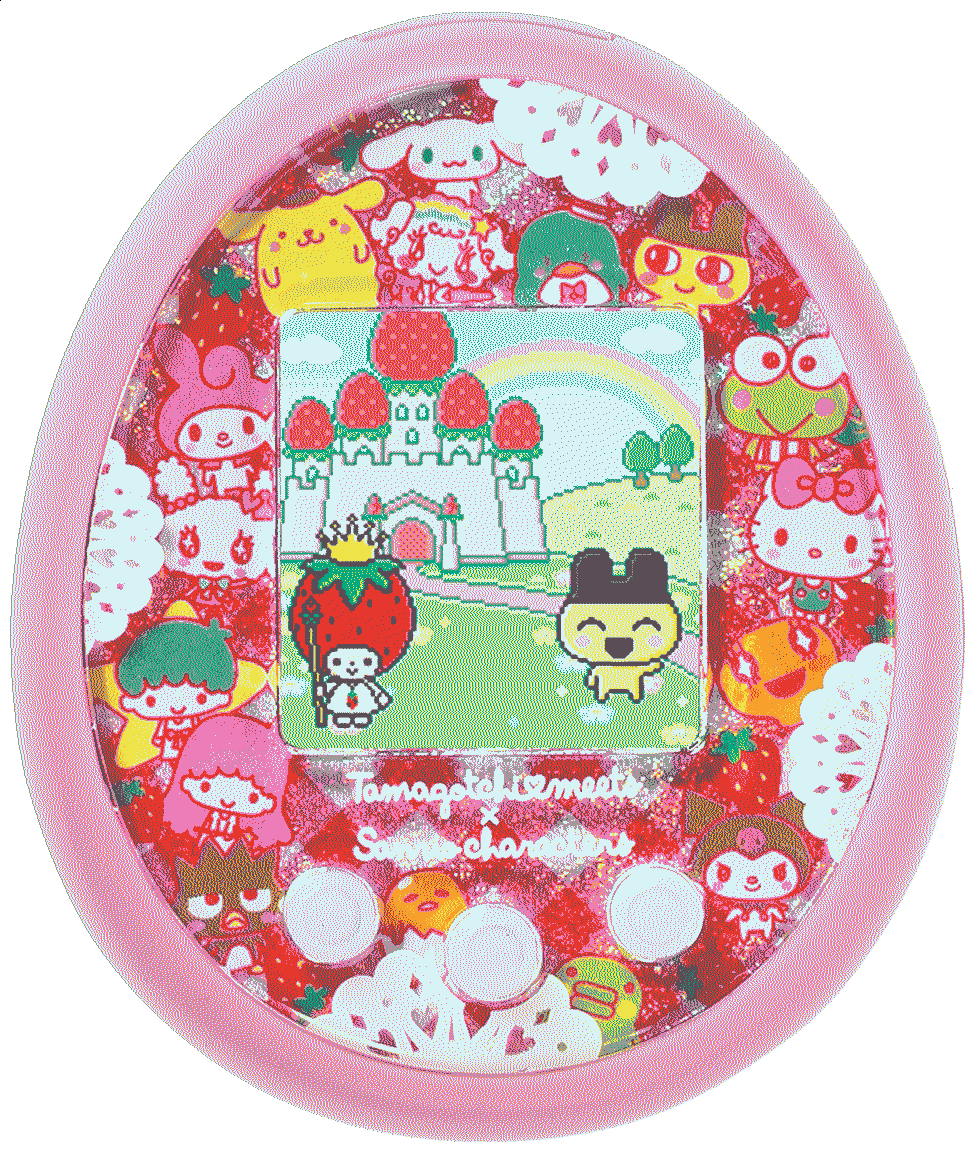
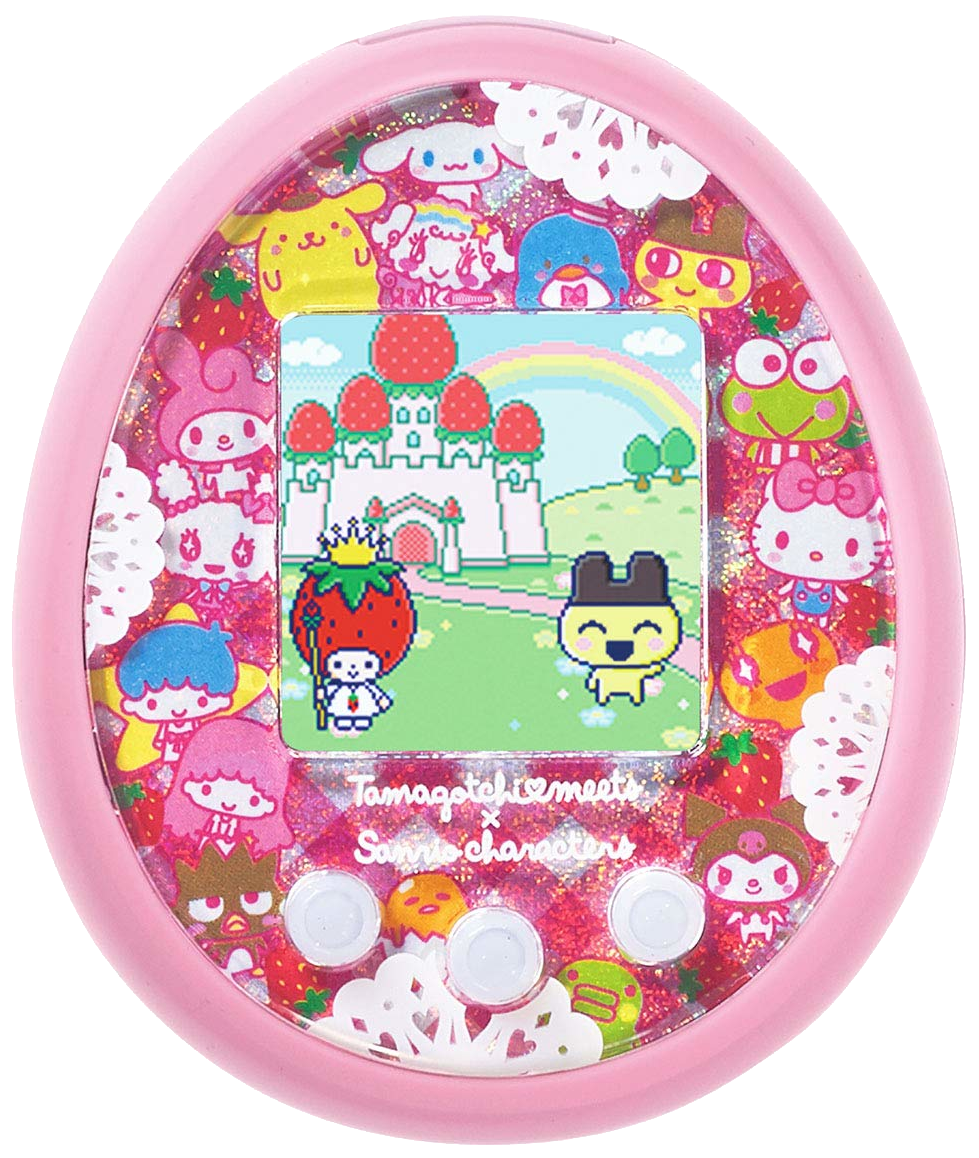
:hatching_chick: tama update

diff --git a/_pages/tamagotchi.md b/_pages/tamagotchi.md
@@ -67,114 +67,63 @@ I think there's something just so compelling about these cute characters, especi
     </center>
     <br>
     <img src="/graphics/tama/uni_pink.png" style="margin: 0 20px 0 0;" width="30%" align="left" title="Tamagotchi Uni Pink- Purchased on August 17, 2023 for ￥7,174 (equivalent to $49.50 USD)">
-    I really didn't think I was going to get into tamagotchi as an adult because I remember the game part of the device was pretty dull when I was a kid. The brand has come a long way since the original generation of tamas, and now growing different characters is so fun! I also love to collect the decor and accessories to dress up my tama and their room. Like many other tamagotchi fans, I am hoping they release a different shell for this tamagotchi, ideally a transparent one. 
+    I really didn't think I was going to get into tamagotchi as an adult because I remember the game part of the device was pretty dull when I was a kid. The brand has come a long way since the original generation of tamas, and now growing different characters is so fun! I also love to collect the decor and accessories to dress up my tama and their room. Like many other tamagotchi fans, I am hoping they release a different shell for this tamagotchi, ideally a transparent one, but I'm having a great time playing with the one I have in the meantime. Here are all the characters I've grown and unlocked so far:
+    <br>
+    <br>
+    <center>
+        <img src="/graphics/tama/niinitchi-uni.png" style="filter: drop-shadow(0 0 15px #ed5db1); margin: 0 5px 0 5px;" title="niinitchi - baby">
+        <img src="/graphics/tama/yooyutchi-uni.png" style="filter: drop-shadow(0 0 15px #ed5db1); margin: 0 5px 0 5px;" title="yooyutchi - baby">
+        <img src="/graphics/tama/Lionetchi_uni.png" style="filter: drop-shadow(0 0 15px #ed5db1); margin: 0 5px 0 5px;" title="lionetchi - child">
+        <img src="/graphics/tama/welcotchi-uni.png" style="filter: drop-shadow(0 0 15px #ed5db1); margin: 0 5px 0 5px;" title="welcotchi - my little welsh corgi tama I'd do anything for">
+        <img src="/graphics/tama/teftetchi-uni.png" style="filter: drop-shadow(0 0 15px #ed5db1); margin: 0 5px 0 5px;" title="teftetchi - teen">
+        <img src="/graphics/tama/curltchi-on.png" style="filter: drop-shadow(0 0 15px #ed5db1); margin: 0 5px 0 5px;" title="curltchi - my little gamer tama">
+        <img src="/graphics/tama/gunchitchi_uni.png" style="filter: drop-shadow(0 0 15px #ed5db1); margin: 0 5px 0 5px;" title="gunchitchi">
+        <img src="/graphics/tama/woopatchi-uni.png" style="filter: drop-shadow(0 0 15px #ed5db1); margin: 0 5px 0 0;" title="woopatchi - adult">
+        <img src="/graphics/tama/Kikitchi_uni.png" style="filter: drop-shadow(0 0 15px #ed5db1); margin: 0 5px 0 5px;" title="Kikitchi - monkey tama!">
+        <img src="/graphics/tama/neliatchi_uni.png" style="filter: drop-shadow(0 0 15px #ed5db1); margin: 0 5px 0 5px;" title="neliatchi">
+        <img src="/graphics/tama/harapparatchi-uni.png" style="filter: drop-shadow(0 0 15px #ed5db1); margin: 0 5px 0 5px;" title="harapparatchi - tamapet">
+        <img src="/graphics/tama/Monatototchi-uni.png" style="filter: drop-shadow(0 0 15px #ed5db1); margin: 0 5px 0 5px;" title="Monatototchi - a little taiyaki pet that showed up to play with welcotchi. cuteness overload">
+    </center>
 </span>
 <br>
-<br>
-<div class="container" style="image-rendering: pixelated; margin: 0 0 10px 0;">
-    <div class="flex-item">
-        <span title="These are the various evolutions of my tama and tamapet from my first time running my Tamagotchi Uni. I was so eager to run this as the device had been recently released. I had just gotten back from a month in Europe, so I was extremely jet lagged and accidentally left my child tama unattended for a while during a nap. She turned into a teftetchi, but I was still able to get a cutie adult tama from this evolution, so I consider the little neglect a happy accident. I love the final result of ✨woopatchi✨, my little pride mascot whose facial expression is a whole mood hehehe."><b>1st generation: woopatchi, queer & iconic</b></span>
-        <br>
-        <br>
-        <center>
-            <img src="/graphics/tama/niinitchi-uni.png" style="filter: drop-shadow(0 0 15px #ed5db1); margin: 0 5px 0 5px;" title="niinitchi - baby">
-            <img src="/graphics/tama/Lionetchi_uni.png" style="filter: drop-shadow(0 0 15px #ed5db1); margin: 0 5px 0 5px;" title="lionetchi - child">
-            <img src="/graphics/tama/teftetchi-uni.png" style="filter: drop-shadow(0 0 15px #ed5db1); margin: 0 5px 0 5px;" title="teftetchi - teen">
-            <img src="/graphics/tama/woopatchi-uni.png" style="filter: drop-shadow(0 0 15px #ed5db1); margin: 0 5px 0 5px;" title="woopatchi - adult">
-            <img src="/graphics/tama/harapparatchi-uni.png" style="filter: drop-shadow(0 0 15px #ed5db1); margin: 0 5px 0 5px;" title="harapparatchi - tamapet">
-        </center>
-    </div>
-    <div class="flex-item">
-        <span title="Woopatchi couldn't resist that Shykutchi. ;P They got busy immediately and made an egg, which hatched into yooyutchi. With some diligent care, he grew quickly into a shy little welcotchi, which has to be one of the cutest tamas in the whole game. I love welsh corgis so much, so I was overjoyed by getting this character who just constantly blushes and asks for cookies and jelly beans. I love that he got to play with the taiyaki-shaped Monatototchi tama pet in the garden all day. Unfortunately, I won too many arcade games and influenced the growth tree to get curltchi, so my dreams of getting Mametchi were completely dashed. Since I had to grind for money, I ended up forcing the evolution towards Kikitchi, our little monkey prince. I didn't love this character design, so as soon as he evolved, I married him off.">
-            <b>2nd generation: Kikitchi, gamer boy</b>
-        </span>
-        <br>
-        <br>
-        <center>
-            <img src="/graphics/tama/woopatchi-uni.png" style="filter: drop-shadow(0 0 15px #ed5db1); margin: 0 5px 0 5px;" title="woopatchi - proposed to skykutchi after the first date">
-            <img src="/graphics/tama/shykutchi-uni.png" style="filter: drop-shadow(0 0 15px #ed5db1); margin: 0 5px 0 5px;" title="shykutchi - rando on the internet">
-            <br>
-            <img src="/graphics/tama/yooyutchi-uni.png" style="filter: drop-shadow(0 0 15px #ed5db1); margin: 0 5px 0 5px;" title="yooyutchi - baby">
-            <img src="/graphics/tama/welcotchi-uni.png" style="filter: drop-shadow(0 0 15px #ed5db1); margin: 0 5px 0 5px;" title="welcotchi - my little welsh corgi tama I'd do anything for">
-            <img src="/graphics/tama/Monatototchi-uni.png" style="filter: drop-shadow(0 0 15px #ed5db1); margin: 0 5px 0 5px;" title="Monatototchi - a little taiyaki pet that showed up to play with welcotchi. cuteness overload">
-            <img src="/graphics/tama/curltchi-on.png" style="filter: drop-shadow(0 0 15px #ed5db1); margin: 0 5px 0 5px;" title="curltchi - my little gamer tama">
-            <img src="/graphics/tama/Kikitchi_uni.png" style="filter: drop-shadow(0 0 15px #ed5db1); margin: 0 5px 0 5px;" title="Kikitchi - monkey tama!">
-        </center>
-    </div>
-    <div class="flex-item">
-        <span title="When my monkey met milktchi, I got another girl!">
-            <b>3rd generation: TBD</b>
-        </span>
-        <br>
-        <br>
-        <center>
-            <img src="/graphics/tama/Kikitchi_uni.png" style="filter: drop-shadow(0 0 15px #ed5db1); margin: 0 5px 0 5px;" title="Kikitchi - monkey tama!">
-            <img src="/graphics/tama/Milktchi_uni.png" style="filter: drop-shadow(0 0 15px #ed5db1); margin: 0 5px 0 5px;" title="Milktchi - mommy">
-            <br>
-            <img src="/graphics/tama/niinitchi-uni.png" style="filter: drop-shadow(0 0 15px #ed5db1); margin: 0 5px 0 5px;" title="niinitchi - baby">
-            <img src="/graphics/tama/Lionetchi_uni.png" style="filter: drop-shadow(0 0 15px #ed5db1); margin: 0 5px 0 5px;" title="lionetchi - child">
-        </center>
-    </div>
-</div>
-<center>
-    <span style="font-size: .8em;">
-        <b>tip: </b> 
-        hover over the generation titles and the characters to read more!
-    </span>
-</center>
 <span id="tamagotchimeets" style="display: inline-block; margin: 10px 0 10px 0;">
     <center>
         <b>ﾟ･✧∘ tamagotchi meets sanrio ∘✧･ﾟ</b>
     </center>
     <br>
     <img src="/graphics/tama/meets_sanrio.png" style="margin: 55px 0 5px 20px;" width="30%" align="right" title="Tamagotchi Meets x Sanrio Pink - Purchased on August 21, 2023 for ¥25,400 (equivalent to $174.72 USD)">
-    This was a semi-impulsive purchase, but I'm so glad I found a decent price on a resale site because I was told anything under $200 USD is a good price for this version. I really wanted to get this tamagotchi because you can grow a sanrio character, then marry other tamagotchi original characters. The children will inherit hybrid physical traits from their sanrio and tamagotchi parents, and the number of different types of possible tamas for this generation of tamagotchi is truly astounding, especially when you consider just <a target="_blank" href="https://tamaplanet.com/charts/tamagotchi-meets-version-chart">the sheer number of base characters</a>. I really want to get a sweets version of the tamagotchi meets as well because the sweets and sanrio hybrid characters would be amazing!
+    This was a semi-impulsive purchase, but I'm so glad I found a decent price on mercari because I was told anything under $200 USD is a good price for this version. I really wanted to get this tamagotchi because you can grow a sanrio character, then marry other tamagotchi original characters. The children will inherit hybrid physical traits from their sanrio and tamagotchi parents, and the number of different types of possible tamas for this generation of tamagotchi is truly astounding, especially when you consider just <a target="_blank" href="https://tamaplanet.com/charts/tamagotchi-meets-version-chart">the sheer number of base characters</a>. I really want to get a sweets version of the tamagotchi meets as well because the sweets and sanrio hybrid characters would be amazing!
+    <br>
+    <br>
+    <center>
+        <img src="/graphics/tama/riboputchi-meets.png" style="filter: drop-shadow(0 0 15px #ed5db1); margin: 0 5px 0 5px;" title="Riboputchi - my little baby girl tama">
+        <img src="/graphics/tama/yumehotchi-meets.png" style="filter: drop-shadow(0 0 15px #ed5db1); margin: 0 5px 0 5px;" title="Yumehotchi - pan pride child?! Can it get more perfect? No. I would crime for Yumehotchi!!!">
+        <img src="/graphics/tama/hanbunkotchi_female_meets.png" style="filter: drop-shadow(0 0 15px #ed5db1); margin: 0 5px 0 5px;" title="hanbunkotchi - an angel in a devil child's playsuit">
+        <img src="/graphics/tama/Lovelitchi_meets.png" style="filter: drop-shadow(0 0 15px #ed5db1); margin: 0 5px 0 5px;" title="Lovelitchi - a sweet bunny tama">
+    </center>
+    <br>
+    I will never forget my first time playing this game nor the tamagotchi I raised. A little sickly Riboputchi hatched, and, within that first hour, I must have medicated it twice, cleaned at least 7 poos, and fed it dozens of times. She takes after me I thought to myself as I mashed away at the buttons. It was much more needy than the tamagotchi uni characters in the baby stage; however, it was entirely worth all the effort to max out hunger and happiness because it turned into Yumehotchi, which is a little ghosty girl with a star crown in the pan pride colors !!! I was so excited that I jumped up immediately and ran over to my girlfriend to show her. The next day, we got Hanbunkotchi, which is quite a cute little split-colored tama followed by her final form: Lovelitchi, a sweet little bunny tama that likes to run around the room, smiling. From this generation onwards, the genetic mixing means there isn't really pixel art of all the variations, so I'll just preserve this first generation in pixel art unless I get extremely inspired to make my own.
 </span>
 <br>
 <br>
-<div class="container" style="image-rendering: pixelated;">
-    <div class="flex-item">
-        <span title="I was so excited to start my first run of my sanrio meets! As soon as my girlfriend brought home the batteries, I turned it on and started with the cutest pink egg. It hatched revealing a very sickly Riboputchi. Within that first hour, I must have medicated it twice, cleaned at least 7 poos, and fed it dozens of times. She takes after me! XD It was much more involved than the Tamagotchi Uni characters; however, it was entirely worth all the effort to max out hunger and happiness because it turned into Yumehotchi, which is a little ghosty girl with a star crown in the pan pride colors !!! I was so excited that I jumped up immediately to run over to my girlfriend and show her. This device was so worth it. The next day, we got hanbunkotchi, which is quite a cute little split-colored tama followed by her final form: Lovelitchi, a sweet little bunny tama that likes to run around the room, smiling.">
-            <b>1st generation: Lovelitchi, a bunny born of perfect care!</b>
-        </span>
-        <br>
-        <center>
-            <img src="/graphics/tama/riboputchi-meets.png" style="filter: drop-shadow(0 0 15px #ed5db1); margin: 0 5px 0 5px;" title="Riboputchi - my little baby girl tama">
-            <img src="/graphics/tama/yumehotchi-meets.png" style="filter: drop-shadow(0 0 15px #ed5db1); margin: 0 5px 0 5px;" title="Yumehotchi - pan pride child?! Can it get more perfect? No. I would crime for Yumehotchi!!!">
-            <img src="/graphics/tama/hanbunkotchi_female_meets.png" style="filter: drop-shadow(0 0 15px #ed5db1); margin: 0 5px 0 5px;" title="hanbunkotchi - an angel in a devil child's playsuit">
-            <img src="/graphics/tama/Lovelitchi_meets.png" style="filter: drop-shadow(0 0 15px #ed5db1); margin: 0 5px 0 5px;" title="Lovelitchi - a sweet bunny tama">
-        </center>
-    </div>
-</div>
 <span style="display: inline-block; margin: 10px 0 10px 0;">
     <center>
         <b>ﾟ･✧∘ gifted tamas ∘✧･ﾟ</b>
     </center>
     <br>
-    My friend dove deep into the rabbit hole of tamagotchi, but quickly gave it up. I am so grateful they gave me these tamas and a phone capable of a specific band of infrared for connecting to the P's tama all for the low price of ¥12,000 JPY ($82.49 USD equivalent at date of purchase)!
+    My friend who inspired me to get the uni dove deep into the rabbit hole of tamagotchi, but quickly gave it up and gave me these tamas and a phone capable of a specific band of infrared for connecting to the P's tama all for ¥12,000 JPY ($82.49 USD)! They are all in great condition, and the tamagotchi pix even came brand new and sealed in its original box. Unreal! I wonder how many I can run concurrently without becoming overwhelmed. 
     <br>
     <br>
     <center>
         <img src="/graphics/tama/meets-magical-purple.png" style="margin; 5px;" width="30%" title="Tamagotchi Meets Magical Purple">
-        <img src="/graphics/tama/ps-pink.png" style="margin: 5px;" width="30%" title="Tamagotchi P's Pink">
+        <img src="/graphics/tama/ps-pink.png" style="margin: 5px;" width="30%" title="Tamagotchi P's Love & Melody set">
         <img src="/graphics/tama/pix-party-pink.png" style="margin: 5px;" width="30%" title="Tamagotchi Pix Party Pink">
     </center>
     <br>
-     I really wonder how many I can run concurrently without becoming overwhelmed. The middle tama is a tamagotchi P's (pronounced like "piece" in Japanese), which has a removable heart charm piece that can be swapped with other charms for DLC items and characters. One of the more expensive pieces is the disney piece because it was the only collab tamagotchi has done with Disney. The tamagotchi on the right is a pink Pix Party, and it actually comes with a build-in camera! I'm going to have to take at least one photo and post it in this shrine regardless of how much it drains the battery.
+     I was most excited to get another meets device, so I can run it concurrently with my sanrio meets, but these are all incredible tamagotchi. The middle tama is a tamagotchi P's (pronounced like "piece" in Japanese), which has a removable heart charm "pierce" that can be swapped with other pierces for DLC items and characters. One of the more expensive pierces is the disney piece because it was the only collab tamagotchi has done with Disney. The tamagotchi on the right is a pink Pix Party, and it actually comes with a build-in camera! I'm going to have to take at least one photo and post it in this shrine regardless of how much it drains the battery.
 </span>
 <br>
 <br>
-<div class="container" style="image-rendering: pixelated;">
-    <div class="flex-item">
-        <span title="">
-            <b>Magical 1st generation: TBD</b>
-        </span>
-        <center>
-            <img src="/graphics/tama/Marupitchi-meets.png" style="filter: drop-shadow(0 0 15px #ed5db1); margin: 0 5px 0 5px;" title="Marupitchi - my little baby girl tama">
-            <img src="/graphics/tama/Chiroritchi_meets.png" style="filter: drop-shadow(0 0 15px #ed5db1); margin: 0 5px 0 5px;" title="Chiroritchi - a little happy bell">
-        </center>
-    </div>
-</div>
 <span style="display: inline-block; margin: 10px 0 10px 0;">
     <center>
         <b>ﾟ･✧∘ new to me, unplayed ∘✧･ﾟ</b>
@@ -190,6 +139,26 @@ I think there's something just so compelling about these cute characters, especi
     <span style="display: inline-block;">
         <img src="/graphics/tama/pink-sweets-meets.png" style="margin: 0 20px 0 0;" width="30%" align="left" title="Tamagotchi Meets Sweets Pink- Purchased on August 25, 2023 for ¥11,000 (equivalent to $75.36 USD)">
         Although I really am struggling with the amount of Japanese up front, I had to get another tamagotchi meets. I can't wait to run this sweets version alongside my magical and sanrio versions. Out of all the colors, pink is definitely my favorite, which is good because white seems to be the most expensive version.
+    </span>
+    <br>
+    <br>
+    <span style="display: inline-block;">
+        <img src="/graphics/tama/nano-gudetama.png" style="margin: 0 0 0 10px;" width="30%" align="right" title="Gudetama nano tamagotchi with gudetama stand - Purchased on August 26, 2023 for ¥2,800 (equivalent to $19.11 USD)">
+        <br>
+        Gudetama is a forever mood, and I love this character so much. I looked up a couple listings, and this didn't seem like a horrible price for both the nano and the case, so I got him to keep me company at my desk. I've heard that the nanos don't have games, you just feed and clean up poo, so I'm not sure if I'll play this one anytime soon.
+    </span>
+    <br>
+    <br>
+    <span style="display: inline-block;">
+        <img src="/graphics/tama/original-pink-glitter.png" style="margin: 0 20px 0 0;" width="30%" align="left" title="Tamagotchi Original Pink Glitter - Purchased on August 25, 2023 for ¥4,699 (equivalent to $32.07 USD)">
+        Since I couldn't get this in stores and everywhere but Amazon US seemed to be sold out, I got this secondhand for ~$12 cheaper than Amazon US. It's new in box, so I'm actually quite pleased. I don't think the gameplay of the originals is quite compelling aside from the Angelgotchi where you take care of dead tamas, so I really just got this because of the gorgeous shell. 
+    </span>
+    <br>
+    <br>
+    <span style="display: inline-block;">
+        <img src="/graphics/tama/original-starry-shower.png" style="margin: 0 0 0 10px;" width="30%" align="right" title="Tamagotchi Original Starry Shower - Purchased on August 27, 2023 for ¥5,555 (equivalent to $37.90 USD)">
+        <br>
+        I couldn't resist this shell glittery transparent shell either. It was new in box, so I did pay a slight aftermarket markup, but I knew I would be upset if I missed out on getting such a gorgeous version of the most iconic shell shape. It could be fun to do a joint run of all my originals at the same time!
     </span>
 </span>
 <br>
@@ -250,9 +219,6 @@ For a free vpet, consider getting a tamaNOTchi (below) or check out my <a href="
     </li>
     <li>
         Tama shell source: <a target="_blank" href="http://www.tamashell.com/">tamashell.com</a>
-    </li>
-    <li>
-        Low-res shell image editing: GIMP & <a target="_blank" href="https://ditherit.com/">ditherit.com</a>
     </li>
     <li>
         Tamagotchi title font: <a target="_blank" href="https://www.dafont.com/diediedie.font?text=TAmaGotchi">Static Type
